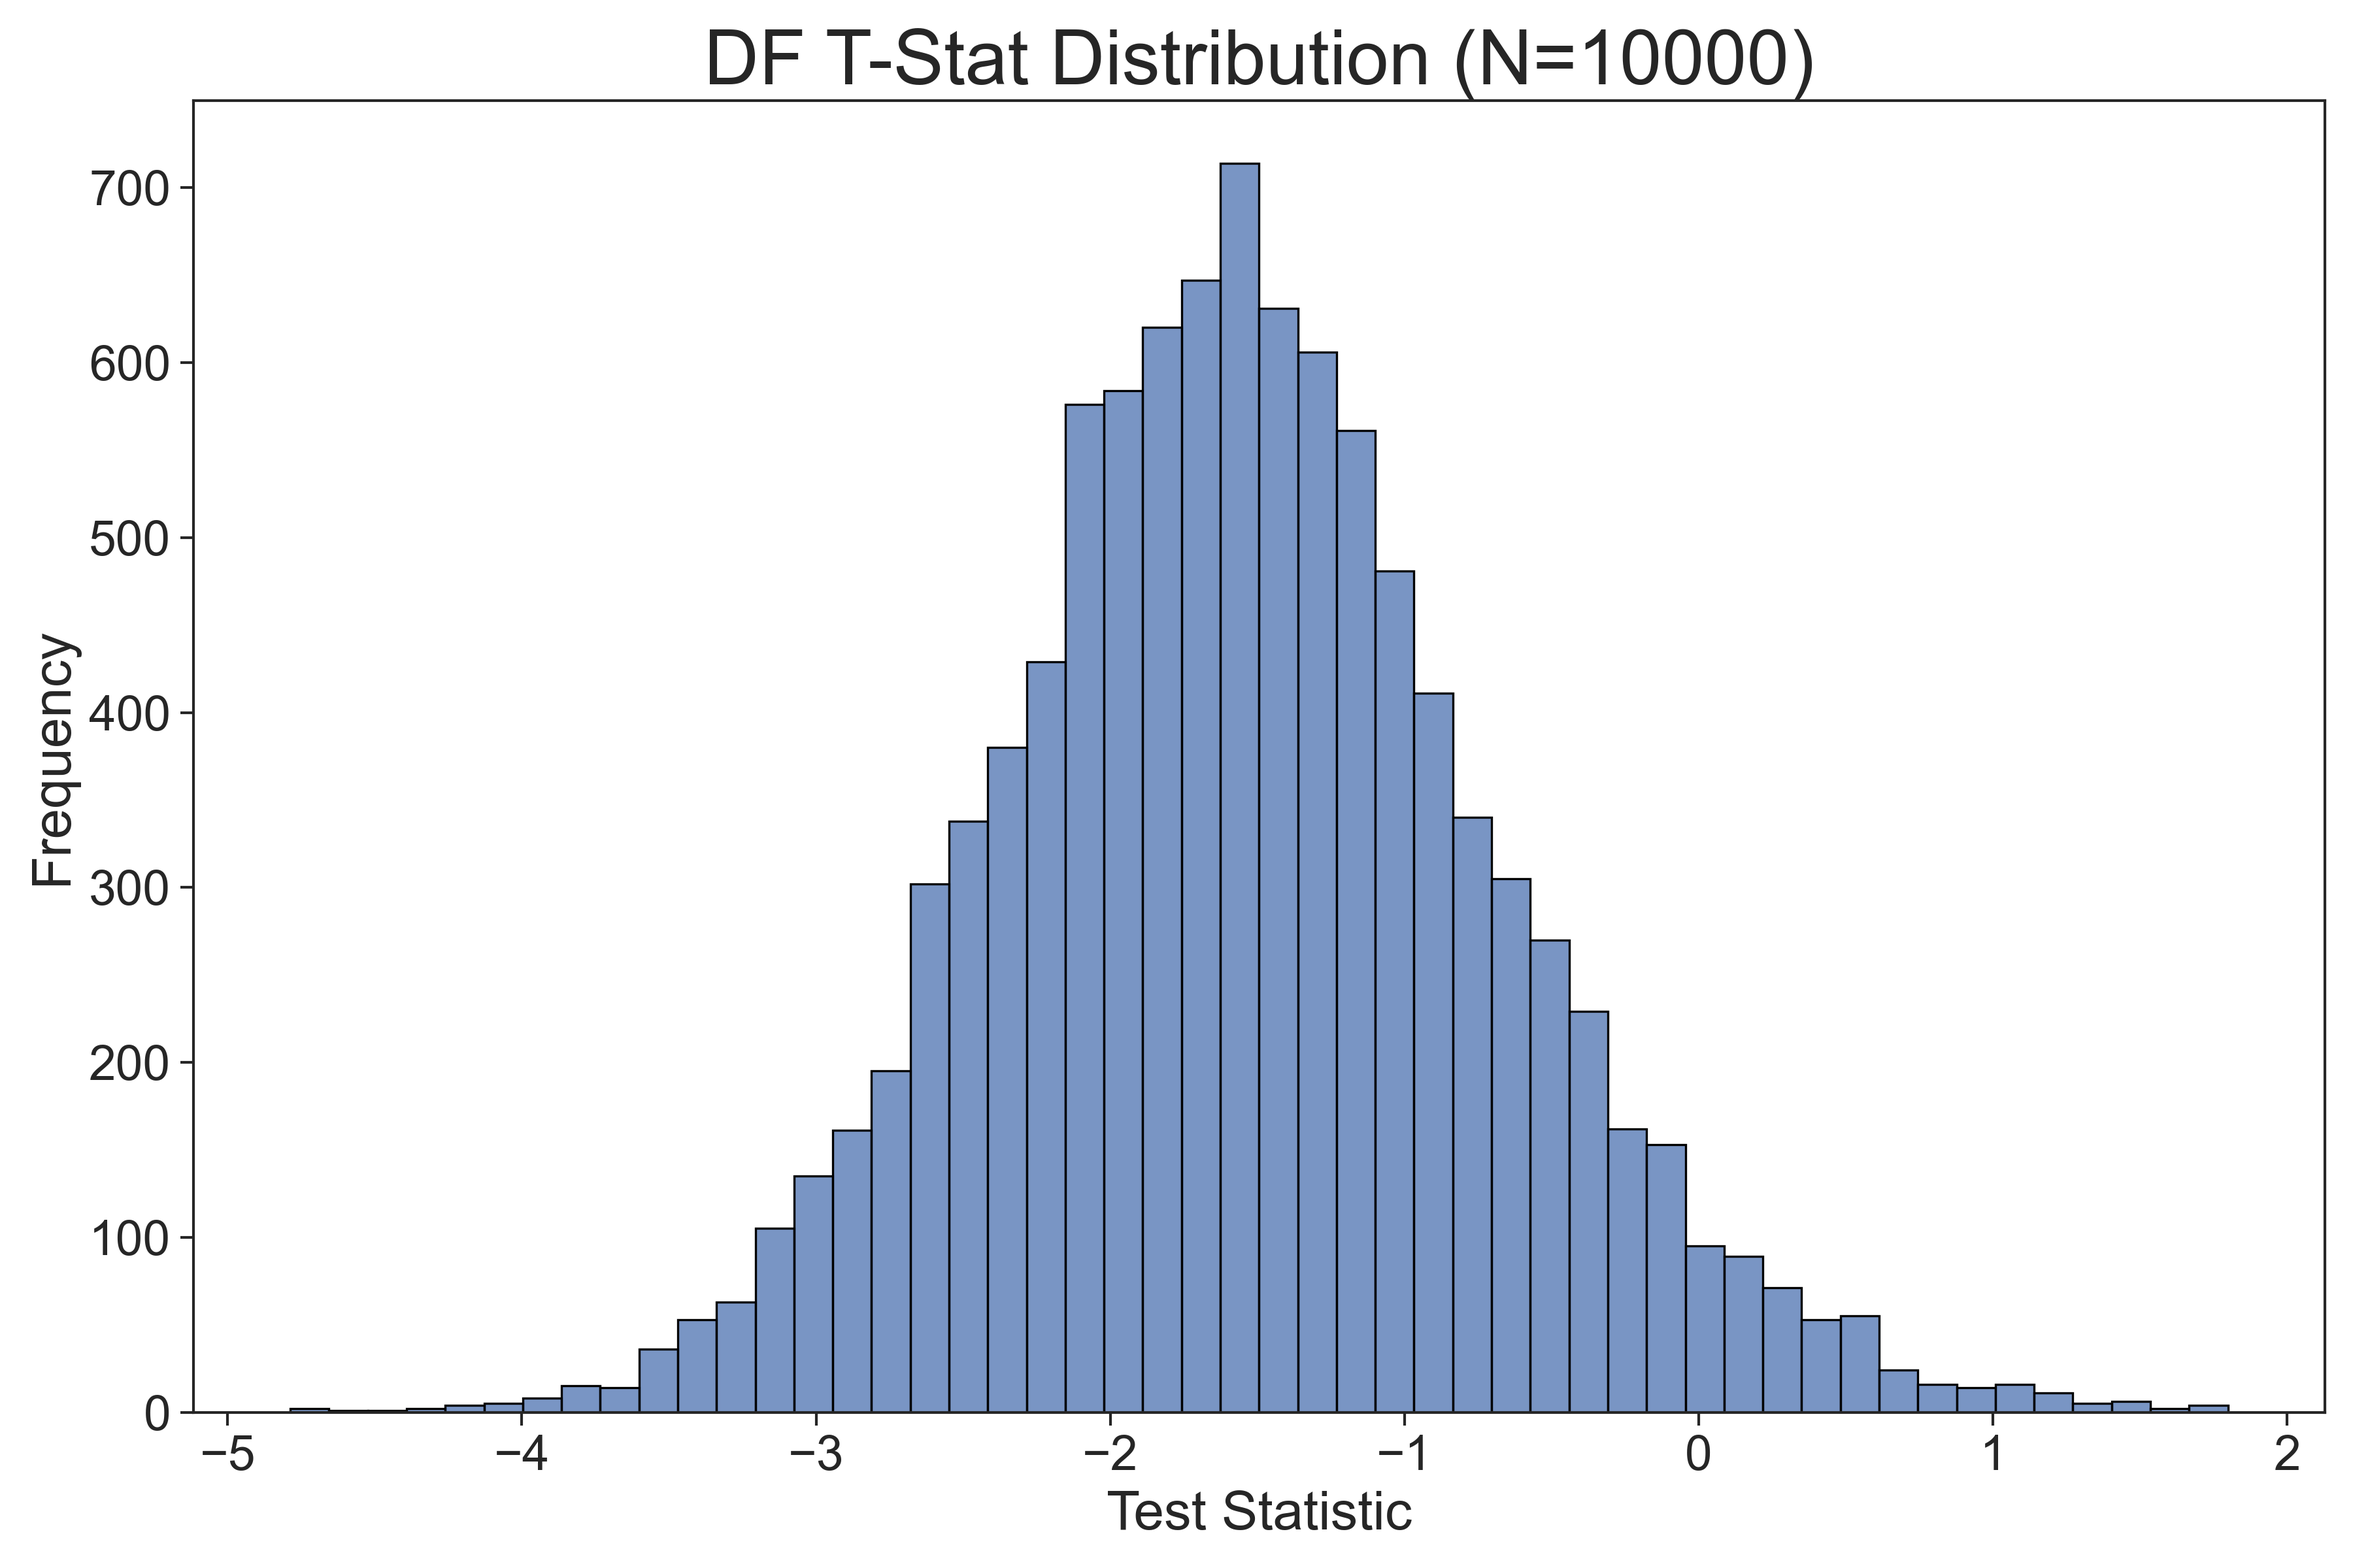
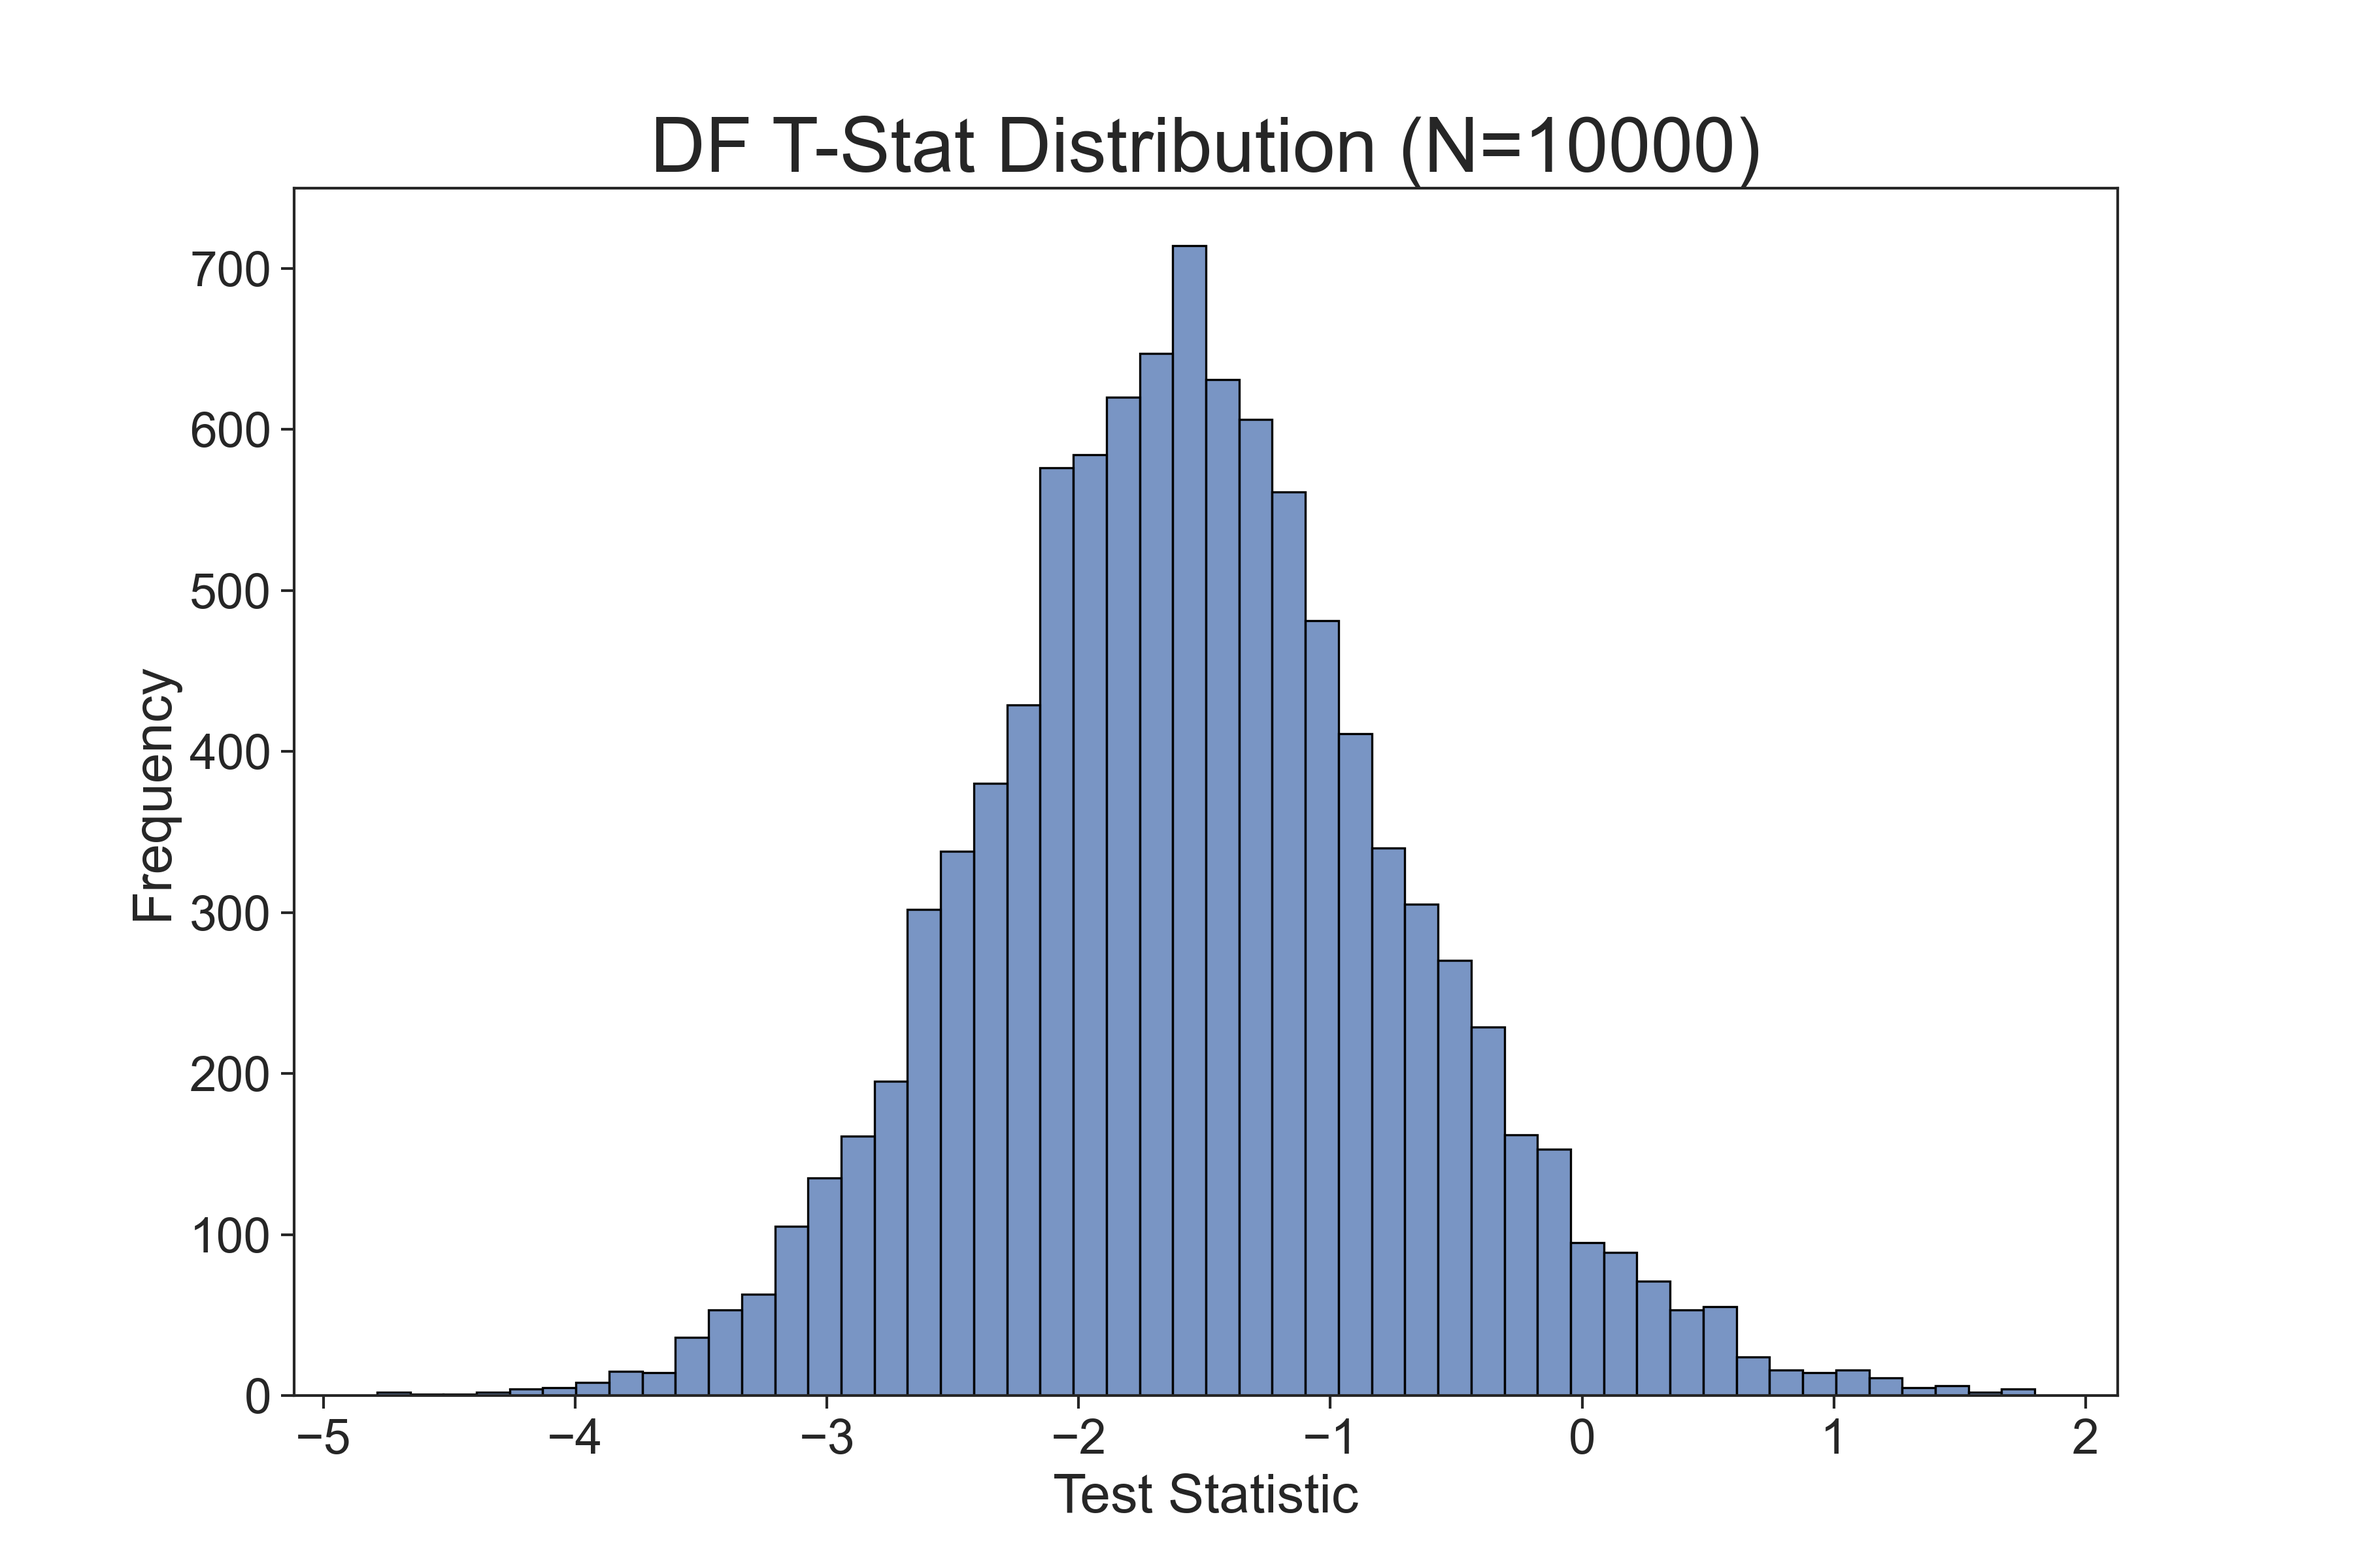
Final changes

diff --git a/main.py b/main.py
@@ -52,7 +52,6 @@ ax.set_title('DF T-Stat Distribution (N={})'.format(N), size=28)
 ax.tick_params(axis='both', labelsize=18)
 plt.xlabel('Test Statistic', size=20)
 plt.ylabel('Frequency', size=20)
-fig.tight_layout()
 plt.show()
 fig.savefig(Path.joinpath(paths.get('output'), 'Q1.4_DF_tstat_dist.png'))
 plt.close()
@@ -74,7 +73,6 @@ ax.tick_params(axis='both', labelsize=18)
 plt.xlabel('Test Statistic', size=20)
 plt.ylabel('Frequency', size=20)
 plt.legend()
-fig.tight_layout()
 plt.show()
 fig.savefig(Path.joinpath(paths.get('output'), 'Q1.5_DF_tstat_dist_cv.png'))
 plt.close()
@@ -133,7 +131,7 @@ cv_coint.to_latex(Path.joinpath(paths.get('output'), 'Q2.1_coint_cv.tex'), float
 # Plotting histogram of critical values
 sns.set(context='paper', style='ticks', font_scale=1.0)
 fig, ax = plt.subplots(figsize=(12, 8), dpi=300)
-sns.histplot(data=ar_params_1, x='DF_TS', bins=50, edgecolor='black')
+sns.histplot(data=df_ts_coint, x='DF_TS', bins=50, edgecolor='black')
 plt.axvline(x=cv_coint.loc[0.01], label='CV 1%', color='red', lw=3)
 plt.axvline(x=cv_coint.loc[0.05], label='CV 5%', color='orange', lw=3)
 plt.axvline(x=cv_coint.loc[0.10], label='CV 10%', color='green', lw=3)
@@ -142,7 +140,6 @@ ax.tick_params(axis='both', labelsize=18)
 plt.xlabel('Test Statistic', size=20)
 plt.ylabel('Frequency', size=20)
 plt.legend()
-fig.tight_layout()
 plt.show()
 fig.savefig(Path.joinpath(paths.get('output'), 'Q2.1_coint_tstat_dist_cv.png'))
 plt.close()
@@ -206,7 +203,6 @@ ax.set_ylabel(ylabel='Log Price', size=20)
 # Legend settings
 ax.legend(loc='upper left', fontsize=16)
 # Show and save
-fig.tight_layout()
 plt.show()
 fig.savefig(Path.joinpath(paths.get('output'), 'Q2.5_WC_pair_plot.png'))
 plt.close()
@@ -267,7 +263,6 @@ ax.set_ylabel(ylabel='')
 # Legend settings
 ax.legend(loc='upper left', fontsize=16)
 # Show and save
-fig.tight_layout()
 plt.show()
 fig.savefig(Path.joinpath(paths.get('output'), 'Q3.2_spread.png'))
 plt.close()
@@ -299,7 +294,6 @@ ax.set_xlabel(xlabel='Lags', size=20)
 ax.set_yticklabels(labels=['{:.1f}'.format(y) for y in ax.get_yticks()], size=18)
 ax.set_ylabel(ylabel='k-Lags Autocorrelation', size=20)
 # Show and save
-fig.tight_layout()
 plt.show()
 fig.savefig(Path.joinpath(paths.get('output'), 'Q3.3_autocorrelogram_spread.png'))
 plt.close()
@@ -347,7 +341,6 @@ ax.set_ylabel(ylabel='')
 # Legend settings
 ax.legend(loc='upper left', fontsize=16)
 # Show and save
-fig.tight_layout()
 plt.show()
 fig.savefig(Path.joinpath(paths.get('output'), 'Q3.4_evolution_wealth.png'))
 plt.close()
@@ -376,7 +369,6 @@ ax.set_ylabel(ylabel='')
 # Legend settings
 ax.legend(loc='upper left', fontsize=16)
 # Show and save
-fig.tight_layout()
 plt.show()
 fig.savefig(Path.joinpath(paths.get('output'), 'Q3.4_evolution_leverage.png'))
 plt.close()
@@ -411,7 +403,6 @@ ax.set_ylabel(ylabel='')
 # Legend settings
 ax.legend(loc='upper left', fontsize=16)
 # Show and save
-fig.tight_layout()
 plt.show()
 fig.savefig(Path.joinpath(paths.get('output'), 'Q3.5_evolution_wealth.png'))
 plt.close()
@@ -440,7 +431,6 @@ ax.set_ylabel(ylabel='')
 # Legend settings
 ax.legend(loc='upper left', fontsize=16)
 # Show and save
-fig.tight_layout()
 plt.show()
 fig.savefig(Path.joinpath(paths.get('output'), 'Q3.5_evolution_leverage.png'))
 plt.close()
@@ -504,7 +494,6 @@ ax.set_ylabel(ylabel='')
 # Legend settings
 ax.legend(loc='lower left', fontsize=16)
 # Show and save
-fig.tight_layout()
 plt.show()
 fig.savefig(Path.joinpath(paths.get('output'), 'Q3.9_rolling_correlations.png'))
 plt.close()
@@ -531,7 +520,6 @@ ax.set_ylabel(ylabel='')
 # Legend settings
 ax.legend(loc='upper left', fontsize=16)
 # Show and save
-fig.tight_layout()
 plt.show()
 fig.savefig(Path.joinpath(paths.get('output'), 'Q3.9_alphas.png'))
 plt.close()
@@ -558,7 +546,6 @@ ax.set_ylabel(ylabel='')
 # Legend settings
 ax.legend(loc='upper left', fontsize=16)
 # Show and save
-fig.tight_layout()
 plt.show()
 fig.savefig(Path.joinpath(paths.get('output'), 'Q3.9_betas.png'))
 plt.close()
@@ -588,7 +575,6 @@ ax.set_ylabel(ylabel='')
 # Legend settings
 ax.legend(loc='upper left', fontsize=16)
 # Show and save
-fig.tight_layout()
 plt.show()
 fig.savefig(Path.joinpath(paths.get('output'), 'Q3.9_spreads.png'))
 plt.close()
@@ -618,7 +604,6 @@ ax.set_xlabel(xlabel='')
 ax.set_yticklabels(labels=['{:.1f}'.format(y) for y in ax.get_yticks()], size=18)
 ax.set_ylabel(ylabel='')
 # Show and save
-fig.tight_layout()
 plt.show()
 fig.savefig(Path.joinpath(paths.get('output'), 'Q3.11_cointegration_PV.png'))
 plt.close()
